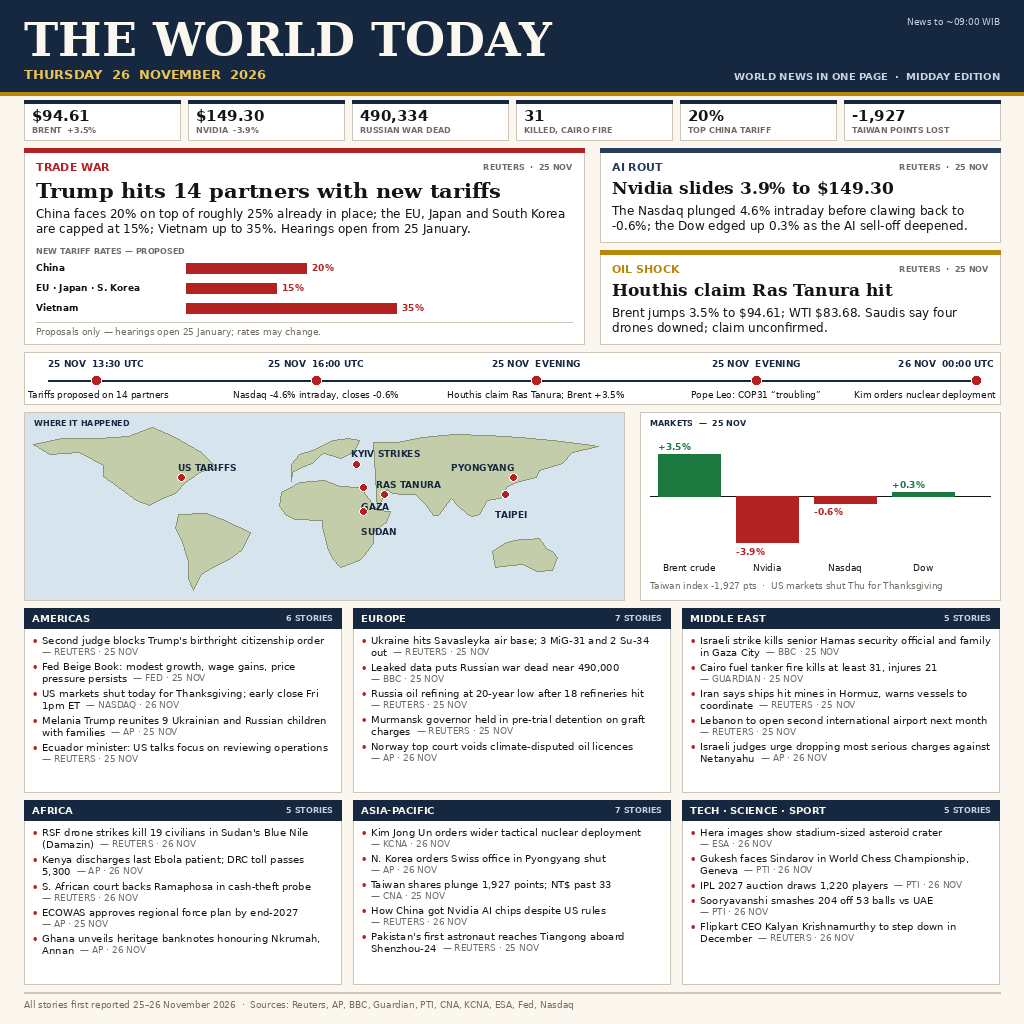
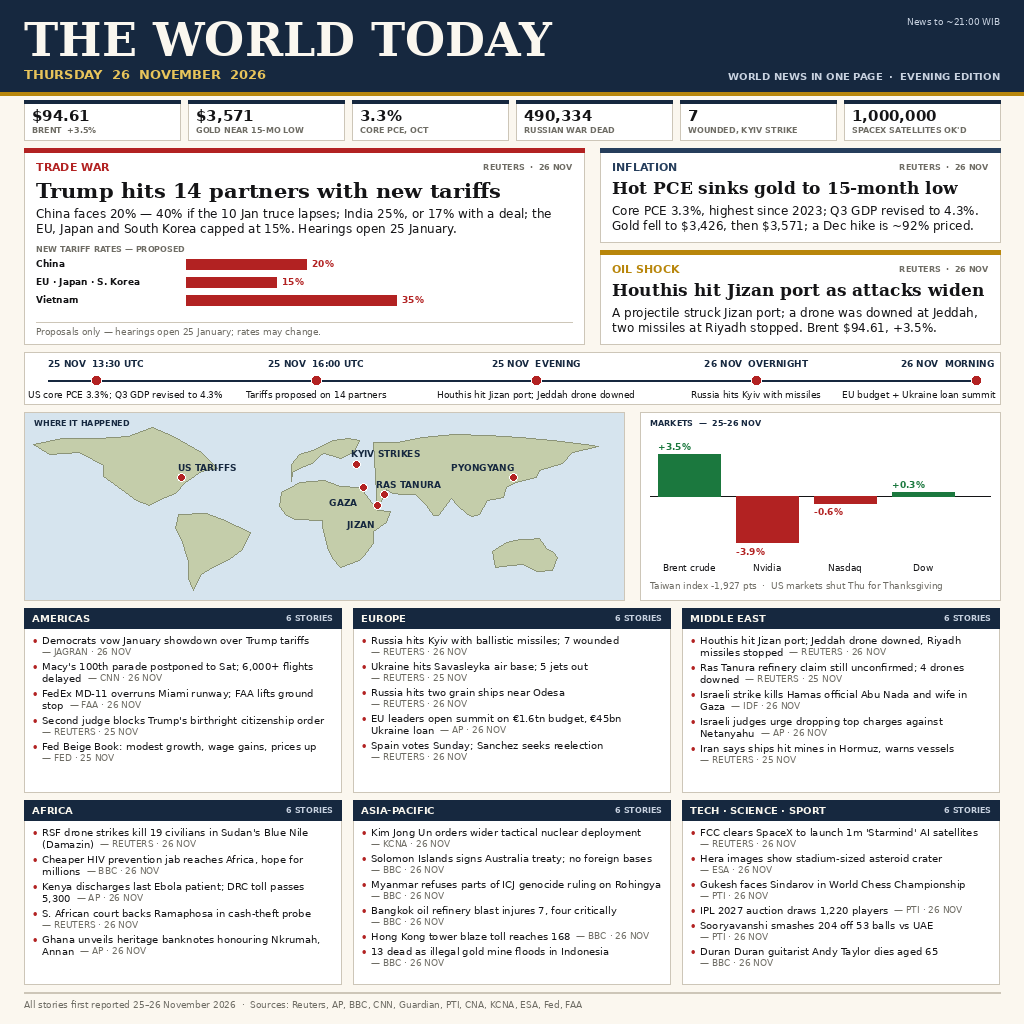
news-image-20261126 evening refresh: full day's news — tariffs fallout, hot PCE/gold slump, Houthi Jizan strike, Kyiv missiles, EU budget summit

diff --git a/draw_news.py b/draw_news.py
@@ -4,7 +4,7 @@
 Everything here is drawn from scratch with Pillow: masthead, lead cards,
 a UTC timeline, a schematic world map, a markets panel and six region
 columns. Story data is embedded below and comes only from the verified
-list for this midday edition (news to about 09:00 WIB, 26 Nov 2026).
+list for this evening edition (news to about 21:00 WIB, 26 Nov 2026).
 """
 import os
 
@@ -95,94 +95,95 @@ LEADS = [
         "kicker": "TRADE WAR",
         "colour": RED,
         "head": "Trump hits 14 partners with new tariffs",
-        "body": ("China faces 20% on top of roughly 25% already in place; the EU, "
-                 "Japan and South Korea are capped at 15%; Vietnam up to 35%. "
-                 "Hearings open from 25 January."),
-        "src": "REUTERS  ·  25 NOV",
+        "body": ("China faces 20% — 40% if the 10 Jan truce lapses; India "
+                 "25%, or 17% with a deal; the EU, Japan and South Korea "
+                 "capped at 15%. Hearings open 25 January."),
+        "src": "REUTERS  ·  26 NOV",
         "bars": [("China", 20), ("EU · Japan · S. Korea", 15), ("Vietnam", 35)],
     },
     {
-        "kicker": "AI ROUT",
+        "kicker": "INFLATION",
         "colour": NAVY_SOFT,
-        "head": "Nvidia slides 3.9% to $149.30",
-        "body": ("The Nasdaq plunged 4.6% intraday before clawing back to -0.6%; "
-                 "the Dow edged up 0.3% as the AI sell-off deepened."),
-        "src": "REUTERS  ·  25 NOV",
+        "head": "Hot PCE sinks gold to 15-month low",
+        "body": ("Core PCE 3.3%, highest since 2023; Q3 GDP revised to 4.3%. "
+                 "Gold fell to $3,426, then $3,571; a Dec hike is ~92% priced."),
+        "src": "REUTERS  ·  26 NOV",
     },
     {
         "kicker": "OIL SHOCK",
         "colour": GOLD,
-        "head": "Houthis claim Ras Tanura hit",
-        "body": ("Brent jumps 3.5% to $94.61; WTI $83.68. Saudis say four "
-                 "drones downed; claim unconfirmed."),
-        "src": "REUTERS  ·  25 NOV",
+        "head": "Houthis hit Jizan port as attacks widen",
+        "body": ("A projectile struck Jizan port; a drone was downed at Jeddah, "
+                 "two missiles at Riyadh stopped. Brent $94.61, +3.5%."),
+        "src": "REUTERS  ·  26 NOV",
     },
 ]
 
 TIMELINE = [
-    ("25 NOV  13:30 UTC", "Tariffs proposed on 14 partners"),
-    ("25 NOV  16:00 UTC", "Nasdaq -4.6% intraday, closes -0.6%"),
-    ("25 NOV  EVENING", "Houthis claim Ras Tanura; Brent +3.5%"),
-    ("25 NOV  EVENING", "Pope Leo: COP31 \u201ctroubling\u201d"),
-    ("26 NOV  00:00 UTC", "Kim orders nuclear deployment"),
+    ("25 NOV  13:30 UTC", "US core PCE 3.3%; Q3 GDP revised to 4.3%"),
+    ("25 NOV  16:00 UTC", "Tariffs proposed on 14 partners"),
+    ("25 NOV  EVENING", "Houthis hit Jizan port; Jeddah drone downed"),
+    ("26 NOV  OVERNIGHT", "Russia hits Kyiv with missiles"),
+    ("26 NOV  MORNING", "EU budget + Ukraine loan summit"),
 ]
 
 NUMBERS = [
     ("$94.61", "BRENT  +3.5%"),
-    ("$149.30", "NVIDIA  -3.9%"),
+    ("$3,571", "GOLD NEAR 15-MO LOW"),
+    ("3.3%", "CORE PCE, OCT"),
     ("490,334", "RUSSIAN WAR DEAD"),
-    ("31", "KILLED, CAIRO FIRE"),
-    ("20%", "TOP CHINA TARIFF"),
-    ("-1,927", "TAIWAN POINTS LOST"),
+    ("7", "WOUNDED, KYIV STRIKE"),
+    ("1,000,000", "SPACEX SATELLITES OK'D"),
 ]
 
 REGIONS = [
     ("AMERICAS", [
+        ("Democrats vow January showdown over Trump tariffs", "JAGRAN · 26 NOV"),
+        ("Macy's 100th parade postponed to Sat; 6,000+ flights delayed", "CNN · 26 NOV"),
+        ("FedEx MD-11 overruns Miami runway; FAA lifts ground stop", "FAA · 26 NOV"),
         ("Second judge blocks Trump's birthright citizenship order", "REUTERS · 25 NOV"),
-        ("Fed Beige Book: modest growth, wage gains, price pressure persists", "FED · 25 NOV"),
-        ("US markets shut today for Thanksgiving; early close Fri 1pm ET", "NASDAQ · 26 NOV"),
-        ("Melania Trump reunites 9 Ukrainian and Russian children with families", "AP · 25 NOV"),
-        ("Ecuador minister: US talks focus on reviewing operations", "REUTERS · 25 NOV"),
-        ("US proposes 10% tariff on Brazil's Embraer jets, higher sugar duties", "REUTERS · 25 NOV"),
+        ("Fed Beige Book: modest growth, wage gains, prices up", "FED · 25 NOV"),
+        ("Trump portfolios traded Nvidia shares 44 times in 2026", "BBC · 26 NOV"),
     ]),
     ("EUROPE", [
-        ("Ukraine hits Savasleyka air base; 3 MiG-31 and 2 Su-34 out", "REUTERS · 25 NOV"),
-        ("Leaked data puts Russian war dead near 490,000", "BBC · 25 NOV"),
-        ("Russia oil refining at 20-year low after 18 refineries hit", "REUTERS · 25 NOV"),
-        ("Murmansk governor held in pre-trial detention on graft charges", "REUTERS · 25 NOV"),
-        ("Norway top court voids climate-disputed oil licences", "AP · 26 NOV"),
-        ("EU hunts new ECB chief as Lagarde resigns", "AP · 25 NOV"),
-        ("Pope Leo calls COP31 failure \u201ctroubling\u201d", "REUTERS · 25 NOV"),
+        ("Russia hits Kyiv with ballistic missiles; 7 wounded", "REUTERS · 26 NOV"),
+        ("Ukraine hits Savasleyka air base; 5 jets out", "REUTERS · 25 NOV"),
+        ("Russia hits two grain ships near Odesa", "REUTERS · 26 NOV"),
+        ("EU leaders open summit on €1.6tn budget, €45bn Ukraine loan", "AP · 26 NOV"),
+        ("Spain votes Sunday; Sanchez seeks reelection", "REUTERS · 26 NOV"),
+        ("34 nations urge Russia to halt riot-gas use in Ukraine", "REUTERS · 26 NOV"),
     ]),
     ("MIDDLE EAST", [
-        ("Israeli strike kills senior Hamas security official and family in Gaza City", "BBC · 25 NOV"),
+        ("Houthis hit Jizan port; Jeddah drone downed, Riyadh missiles stopped", "REUTERS · 26 NOV"),
+        ("Ras Tanura refinery claim still unconfirmed; 4 drones downed", "REUTERS · 25 NOV"),
+        ("Israeli strike kills Hamas official Abu Nada and wife in Gaza", "IDF · 26 NOV"),
+        ("Israeli judges urge dropping top charges against Netanyahu", "AP · 26 NOV"),
+        ("Iran says ships hit mines in Hormuz, warns vessels", "REUTERS · 25 NOV"),
         ("Cairo fuel tanker fire kills at least 31, injures 21", "GUARDIAN · 25 NOV"),
-        ("Iran says ships hit mines in Hormuz, warns vessels to coordinate", "REUTERS · 25 NOV"),
-        ("Lebanon to open second international airport next month", "REUTERS · 25 NOV"),
-        ("Israeli judges urge dropping most serious charges against Netanyahu", "AP · 26 NOV"),
     ]),
     ("AFRICA", [
         ("RSF drone strikes kill 19 civilians in Sudan's Blue Nile (Damazin)", "REUTERS · 26 NOV"),
+        ("Cheaper HIV prevention jab reaches Africa, hope for millions", "BBC · 26 NOV"),
         ("Kenya discharges last Ebola patient; DRC toll passes 5,300", "AP · 26 NOV"),
         ("S. African court backs Ramaphosa in cash-theft probe", "REUTERS · 26 NOV"),
-        ("ECOWAS approves regional force plan by end-2027", "AP · 25 NOV"),
         ("Ghana unveils heritage banknotes honouring Nkrumah, Annan", "AP · 26 NOV"),
+        ("ECOWAS approves regional force plan by end-2027", "AP · 25 NOV"),
     ]),
     ("ASIA-PACIFIC", [
         ("Kim Jong Un orders wider tactical nuclear deployment", "KCNA · 26 NOV"),
-        ("N. Korea orders Swiss office in Pyongyang shut", "AP · 26 NOV"),
-        ("Taiwan shares plunge 1,927 points; NT$ past 33", "CNA · 25 NOV"),
-        ("How China got Nvidia AI chips despite US rules", "REUTERS · 26 NOV"),
-        ("Pakistan's first astronaut reaches Tiangong aboard Shenzhou-24", "REUTERS · 25 NOV"),
-        ("India marks Constitution Day; 6,000 new IIT seats in AI, robotics, space", "PTI · 26 NOV"),
-        ("Bangladesh raises garment minimum wage 36%", "AP · 26 NOV"),
+        ("Solomon Islands signs Australia treaty; no foreign bases", "BBC · 26 NOV"),
+        ("Myanmar refuses parts of ICJ genocide ruling on Rohingya", "BBC · 26 NOV"),
+        ("Bangkok oil refinery blast injures 7, four critically", "BBC · 26 NOV"),
+        ("Hong Kong tower blaze toll reaches 168", "BBC · 26 NOV"),
+        ("13 dead as illegal gold mine floods in Indonesia", "BBC · 26 NOV"),
     ]),
     ("TECH · SCIENCE · SPORT", [
+        ("FCC clears SpaceX to launch 1m 'Starmind' AI satellites", "REUTERS · 26 NOV"),
         ("Hera images show stadium-sized asteroid crater", "ESA · 26 NOV"),
-        ("Gukesh faces Sindarov in World Chess Championship, Geneva", "PTI · 26 NOV"),
+        ("Gukesh faces Sindarov in World Chess Championship", "PTI · 26 NOV"),
         ("IPL 2027 auction draws 1,220 players", "PTI · 26 NOV"),
         ("Sooryavanshi smashes 204 off 53 balls vs UAE", "PTI · 26 NOV"),
-        ("Flipkart CEO Kalyan Krishnamurthy to step down in December", "REUTERS · 26 NOV"),
+        ("Duran Duran guitarist Andy Taylor dies aged 65", "BBC · 26 NOV"),
     ]),
 ]
 
@@ -222,11 +223,10 @@ CONTINENTS = [
 HOTSPOTS = [
     (-77, 39, "US TARIFFS", -4, -16),
     (47, 25, "RAS TANURA", -8, -16),
+    (42.5, 16.5, "JIZAN", -30, 14),
     (30, 50, "KYIV STRIKES", -6, -16),
-    (34, 31, "GAZA", -2, 14),
-    (34, 11, "SUDAN", -2, 14),
+    (34, 31, "GAZA", -34, 10),
     (126, 39, "PYONGYANG", -62, -16),
-    (121, 25, "TAIPEI", -10, 14),
 ]
 
 
@@ -241,11 +241,11 @@ def paint_masthead(d):
     d.rectangle([0, 92, W, 95], fill=GOLD)
     d.text((24, 12), "THE WORLD TODAY", font=F_TITLE, fill=(250, 247, 239))
     d.text((24, 66), "THURSDAY  26  NOVEMBER  2026", font=F_DATE, fill=(232, 196, 90))
-    right = "WORLD NEWS IN ONE PAGE  ·  MIDDAY EDITION"
+    right = "WORLD NEWS IN ONE PAGE  ·  EVENING EDITION"
     d.text((W - 24 - d.textlength(right, font=F_SMALL_B), 70),
            right, font=F_SMALL_B, fill=(200, 210, 224))
-    d.text((W - 24 - d.textlength("News to ~09:00 WIB", font=F_TINY), 16),
-           "News to ~09:00 WIB", font=F_TINY, fill=(200, 210, 224))
+    d.text((W - 24 - d.textlength("News to ~21:00 WIB", font=F_TINY), 16),
+           "News to ~21:00 WIB", font=F_TINY, fill=(200, 210, 224))
 
 
 def paint_numbers(d):
@@ -273,9 +273,9 @@ def paint_lead_card(d, x, y, w, h, lead, big):
     if lead.get("bars"):
         by = draw_wrapped(d, cx, by, lead["body"], F_BODY, w - 24, leading=15)
         # Horizontal tariff bars: name, bar, percent — one row per partner.
-        ry = by + 10
+        ry = by + 8
         d.text((cx, ry), "NEW TARIFF RATES — PROPOSED", font=F_TAG, fill=GREY)
-        ry += 16
+        ry += 14
         for name, pct in lead["bars"]:
             d.text((cx, ry), name, font=F_TINY_B, fill=INK)
             bar_x = cx + 150
@@ -283,7 +283,7 @@ def paint_lead_card(d, x, y, w, h, lead, big):
                         fill=lead["colour"])
             d.text((bar_x + pct * 6 + 6, ry), f"{pct}%", font=F_TINY_B,
                    fill=lead["colour"])
-            ry += 20
+            ry += 18
         rule(d, cx, y + h - 22, x + w - 12)
         d.text((cx, y + h - 18),
                "Proposals only — hearings open 25 January; rates may change.",
@@ -337,7 +337,7 @@ def paint_map(d):
 def paint_markets(d):
     x0, y0, w, h = 640, 412, 360, 188
     d.rectangle([x0, y0, x0 + w, y0 + h], outline=LIGHT_LINE, width=1, fill=PANEL)
-    d.text((x0 + 10, y0 + 6), "MARKETS  —  25 NOV", font=F_TAG, fill=NAVY)
+    d.text((x0 + 10, y0 + 6), "MARKETS  —  25–26 NOV", font=F_TAG, fill=NAVY)
     zero_y = y0 + 84
     d.line([(x0 + 10, zero_y), (x0 + w - 10, zero_y)], fill=INK, width=1)
     bw, gap = 62, 16
@@ -407,7 +407,7 @@ def paint_regions(d):
 def paint_footer(d):
     rule(d, 24, 992, W - 24, width=2)
     d.text((24, 999),
-           "All stories first reported 25\u201326 November 2026  ·  Sources: Reuters, AP, BBC, Guardian, PTI, CNA, KCNA, ESA, Fed, Nasdaq",
+           "All stories first reported 25\u201326 November 2026  ·  Sources: Reuters, AP, BBC, CNN, Guardian, PTI, CNA, KCNA, ESA, Fed, FAA",
            font=F_TINY, fill=GREY)
 
 
